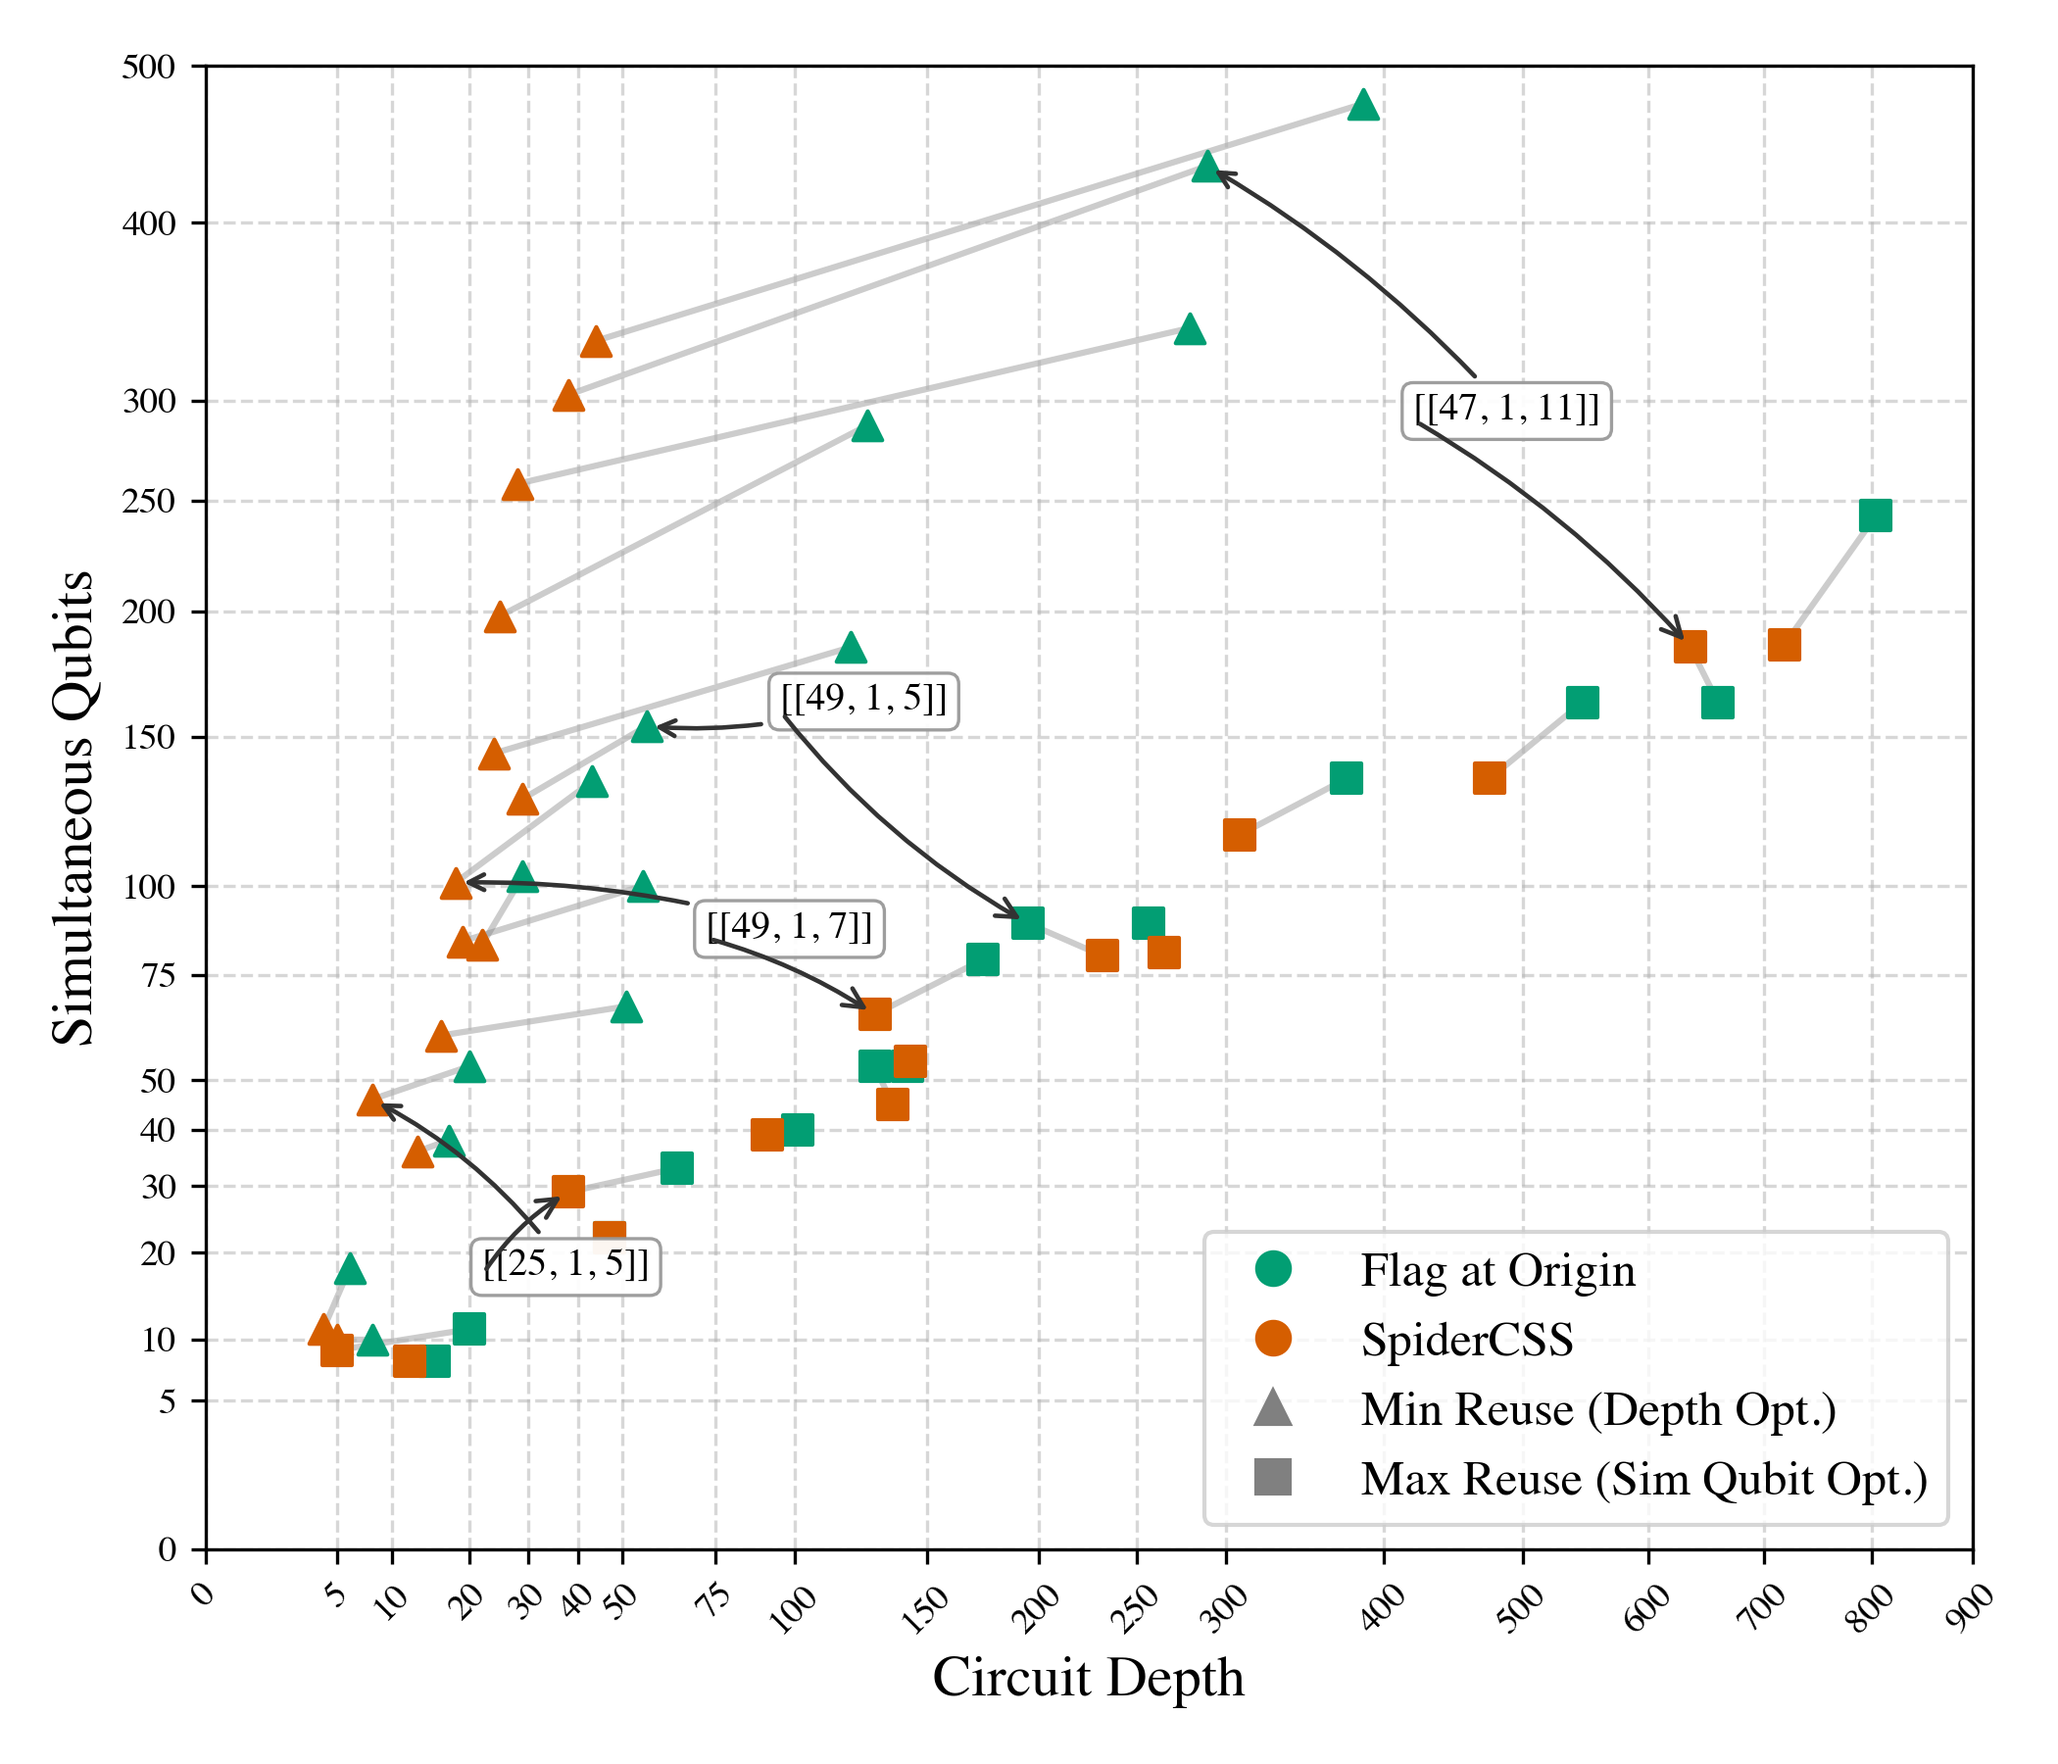
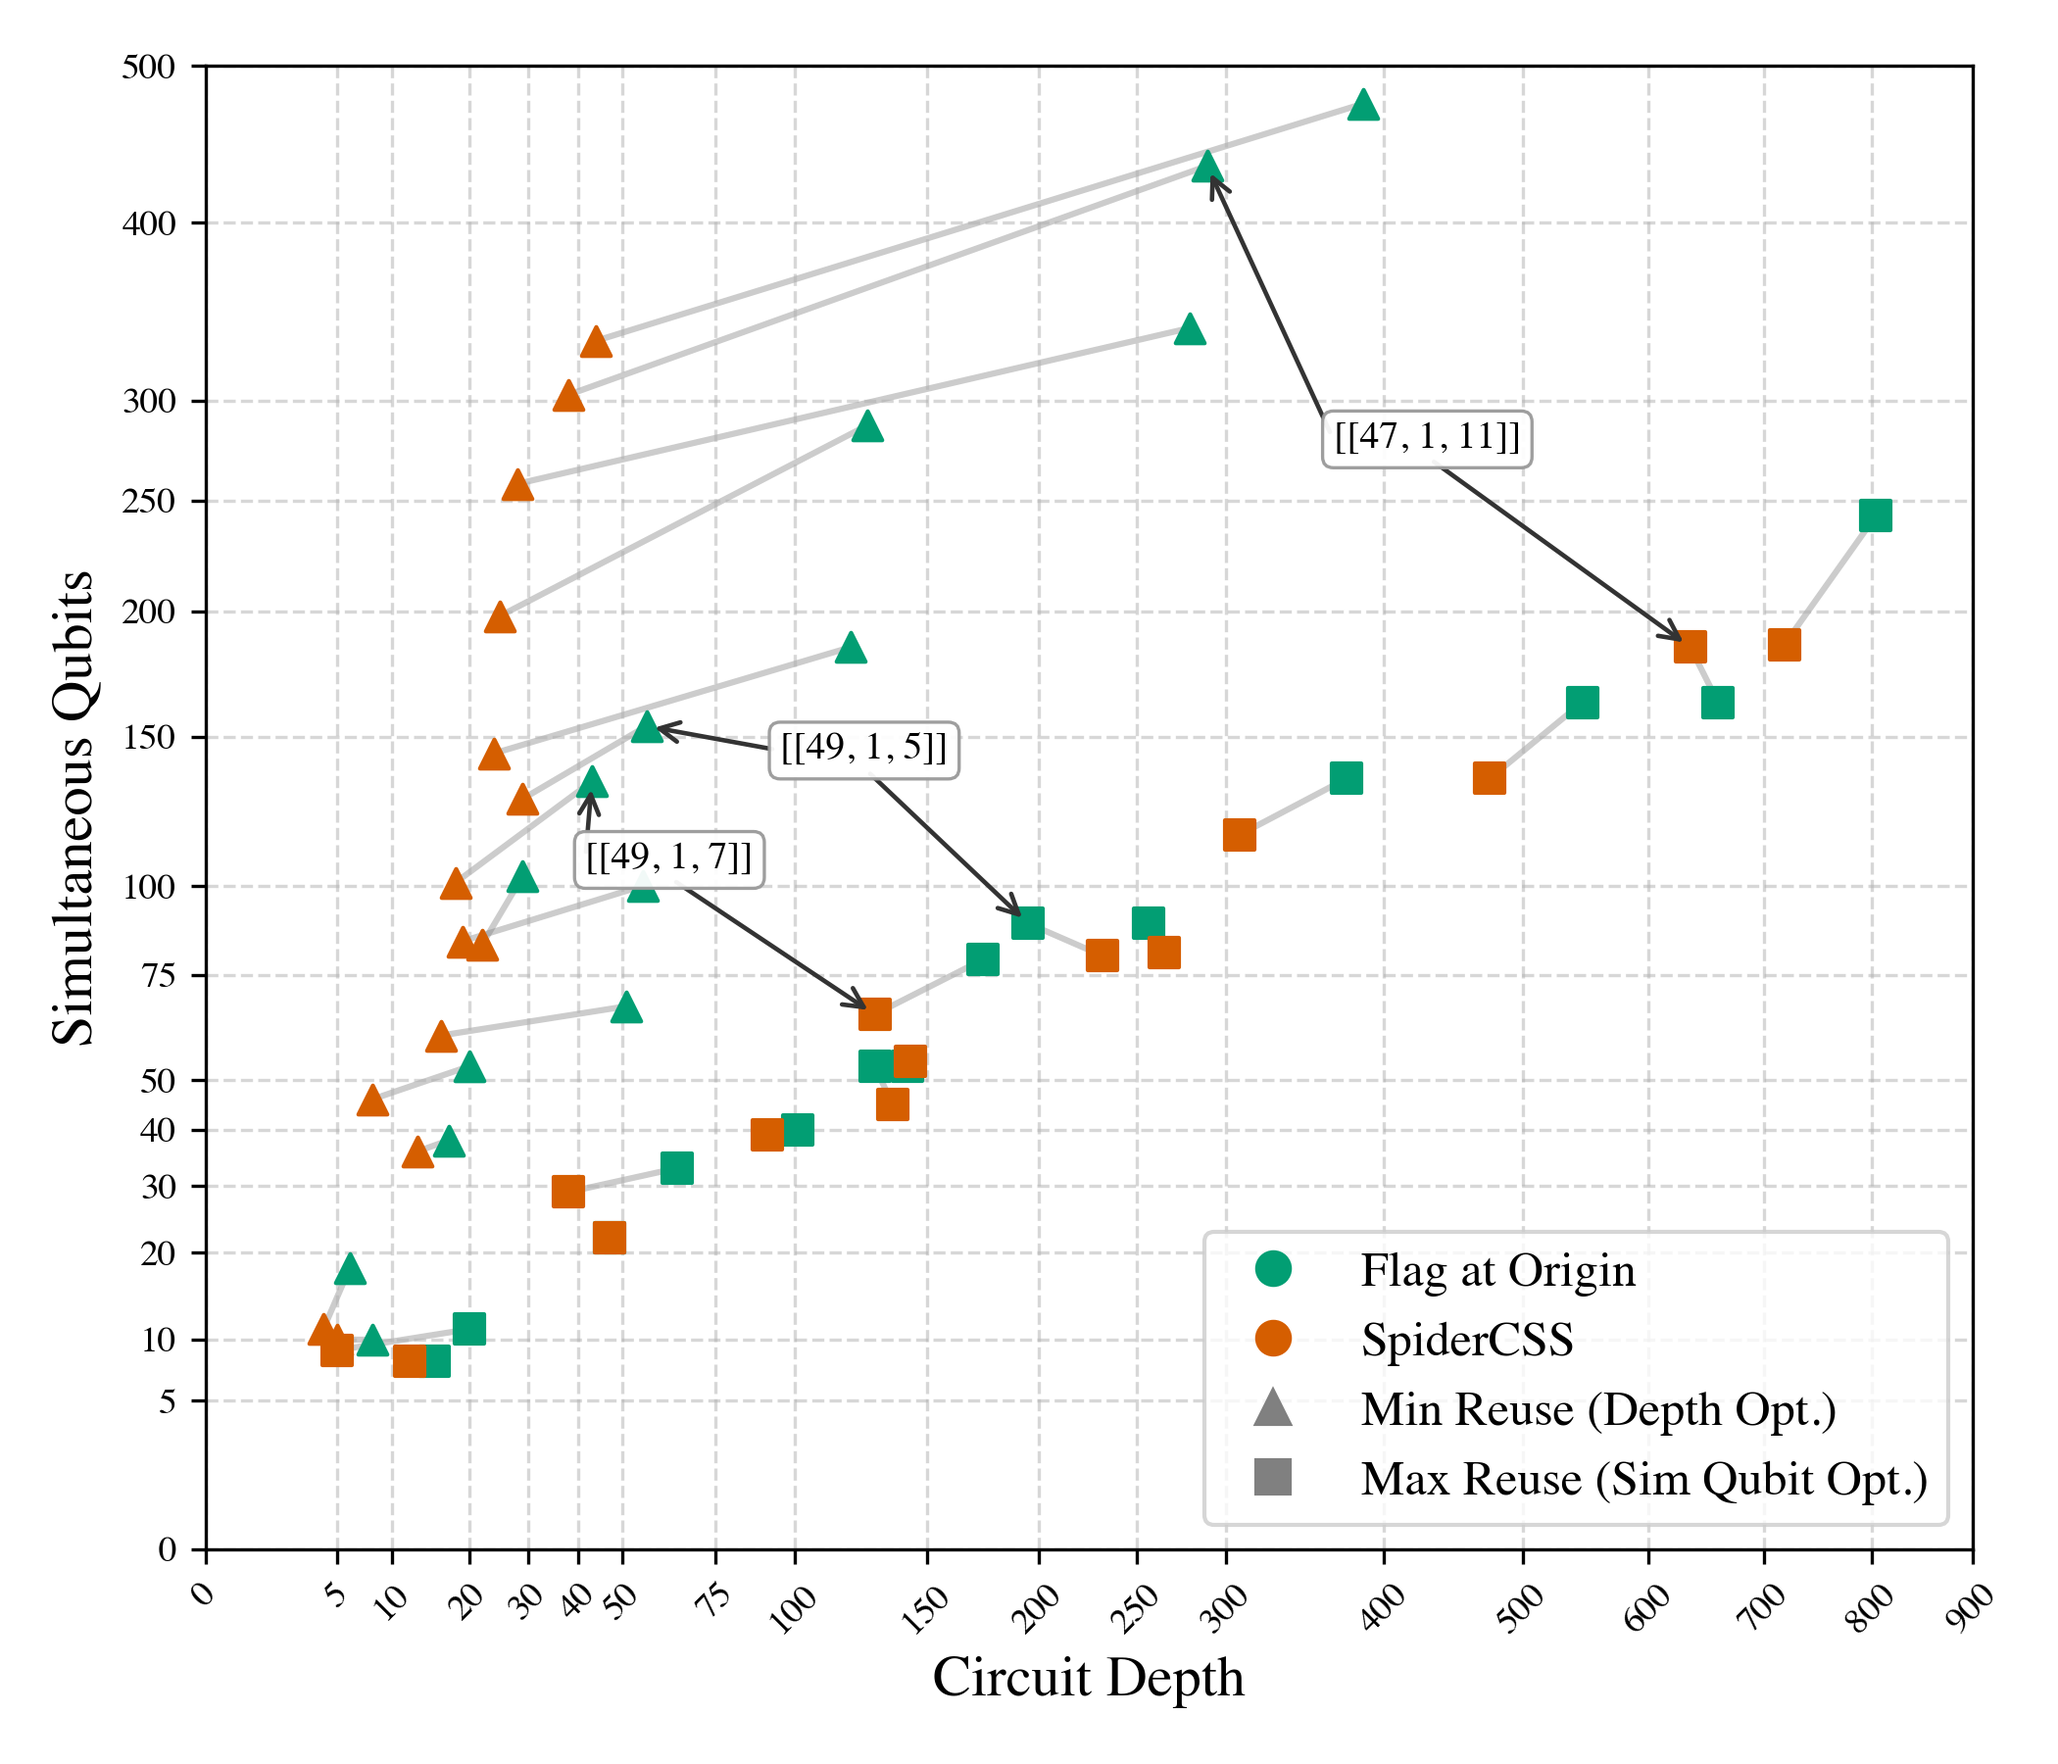
Update scatter plot with straight dual arrows, mid-bottom anchor for boxes, and refined badge positions

diff --git a/spidercss/visualize.py b/spidercss/visualize.py
@@ -259,53 +259,6 @@ def plot_depth_sim_qubits_scatter(codes, grouped_stats, fao_stats, colors, plots
     ax.tick_params(axis='x', rotation=45, labelsize=9)
     ax.tick_params(axis='y', labelsize=9)
     
-    # Styled labels with badges and smooth curved dual arrows
-    bbox_props = dict(boxstyle="round,pad=0.28", facecolor="white", edgecolor="#999999", lw=0.8, alpha=0.95)
-    arrow_kw = dict(arrowstyle="->", color="#333333", lw=1.1)
-
-    label_configs = [
-        {
-            "text": "[[25, 1, 5]]",
-            "pos": (22, 17),
-            "tri": (8, 46),
-            "sq": (38, 29),
-            "rad_tri": 0.12,
-            "rad_sq": -0.12,
-        },
-        {
-            "text": "[[49, 1, 7]]",
-            "pos": (72, 85),
-            "tri": (18, 101),
-            "sq": (129, 65),
-            "rad_tri": 0.08,
-            "rad_sq": -0.08,
-        },
-        {
-            "text": "[[49, 1, 5]]",
-            "pos": (95, 160),
-            "tri": (56, 154),
-            "sq": (195, 89),
-            "rad_tri": -0.10,
-            "rad_sq": 0.10,
-        },
-        {
-            "text": "[[47, 1, 11]]",
-            "pos": (420, 290),
-            "tri": (289, 435),
-            "sq": (635, 185),
-            "rad_tri": 0.08,
-            "rad_sq": -0.08,
-        },
-    ]
-
-    for cfg in label_configs:
-        tri_arrow = dict(**arrow_kw, connectionstyle=f"arc3,rad={cfg['rad_tri']}")
-        sq_arrow = dict(**arrow_kw, connectionstyle=f"arc3,rad={cfg['rad_sq']}")
-        ax.annotate(cfg["text"], xy=cfg["tri"], xytext=cfg["pos"], fontsize=9.5,
-                    bbox=bbox_props, arrowprops=tri_arrow, zorder=4)
-        ax.annotate("", xy=cfg["sq"], xytext=cfg["pos"],
-                    arrowprops=sq_arrow, zorder=4)
-
     plt.xlabel("Circuit Depth")
     plt.ylabel("Simultaneous Qubits")
     plt.grid(True, which="both", ls="--", alpha=0.5)
@@ -319,6 +272,54 @@ def plot_depth_sim_qubits_scatter(codes, grouped_stats, fao_stats, colors, plots
     
     plt.legend(handles=[fao_marker, spider_marker, min_reuse_marker, max_reuse_marker], loc='lower right')
     plt.tight_layout()
+    plt.gcf().canvas.draw()
+
+    # Styled labels with badges and straight dual arrows
+    bbox_props = dict(boxstyle="round,pad=0.28", facecolor="white", edgecolor="#999999", lw=0.8, alpha=0.95)
+    arrow_kw = dict(arrowstyle="->", color="#333333", lw=1.1)
+
+    label_configs = [
+        {
+            "text": "[[49, 1, 7]]",
+            "pos": (62, 108),
+            "tri": (43, 134),
+            "sq": (129, 65),
+        },
+        {
+            "text": "[[49, 1, 5]]",
+            "pos": (125, 145),
+            "tri": (56, 154),
+            "sq": (195, 89),
+        },
+        {
+            "text": "[[47, 1, 11]]",
+            "pos": (430, 280),
+            "tri": (289, 435),
+            "sq": (635, 185),
+        },
+    ]
+
+    for cfg in label_configs:
+        t = ax.text(cfg["pos"][0], cfg["pos"][1], cfg["text"],
+                    ha="center", va="center", fontsize=9.5, bbox=bbox_props, zorder=5)
+        cfg["text_obj"] = t
+
+    plt.gcf().canvas.draw()
+    inv = ax.transData.inverted()
+
+    for cfg in label_configs:
+        t = cfg["text_obj"]
+        disp_bbox = t.get_window_extent()
+        mid_bottom = inv.transform(((disp_bbox.x0 + disp_bbox.x1) / 2, disp_bbox.y0))
+        mid_left = inv.transform((disp_bbox.x0, (disp_bbox.y0 + disp_bbox.y1) / 2))
+        
+        # Arrow to triangle from mid_left
+        ax.annotate("", xy=cfg["tri"], xytext=mid_left,
+                    arrowprops=arrow_kw, zorder=4)
+        # Arrow to square from mid_bottom
+        ax.annotate("", xy=cfg["sq"], xytext=mid_bottom,
+                    arrowprops=arrow_kw, zorder=4)
+
     plt.savefig(os.path.join(plots_dir, "depth_sim_qubits_scatter.png"), dpi=300)
     plt.savefig(os.path.join(plots_dir, "depth_sim_qubits_scatter.pdf"))
     plt.close()
